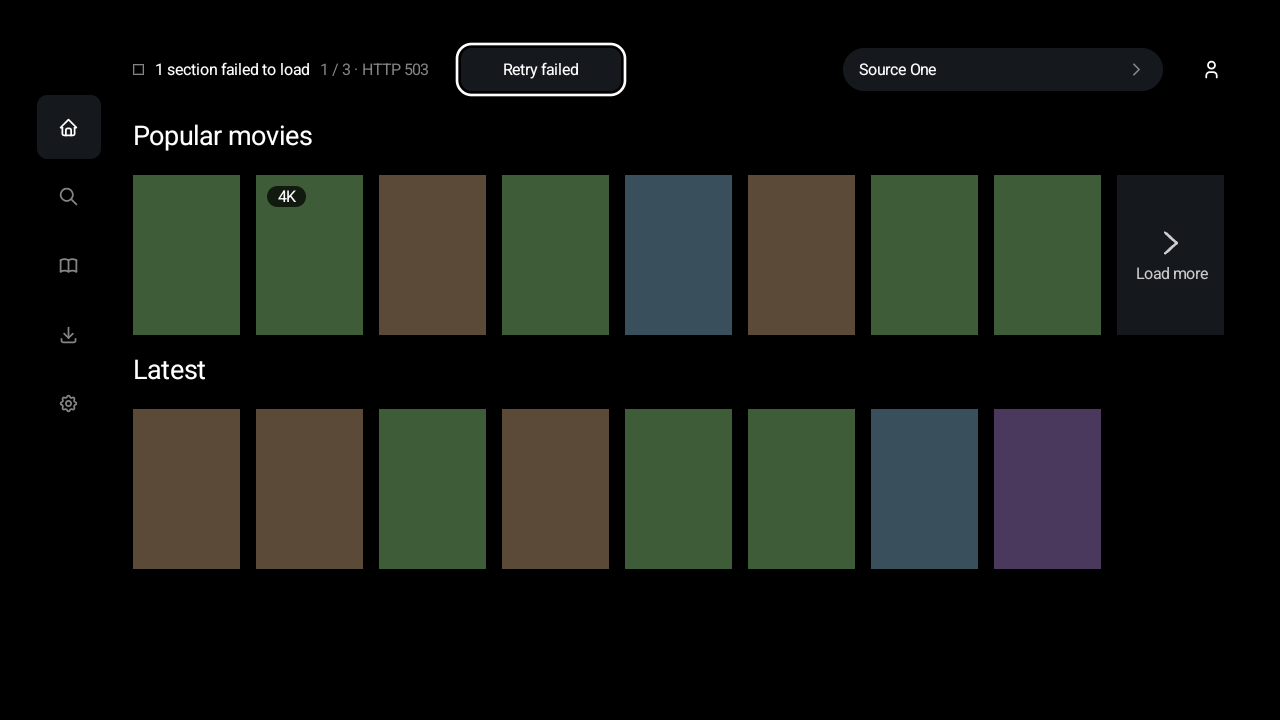
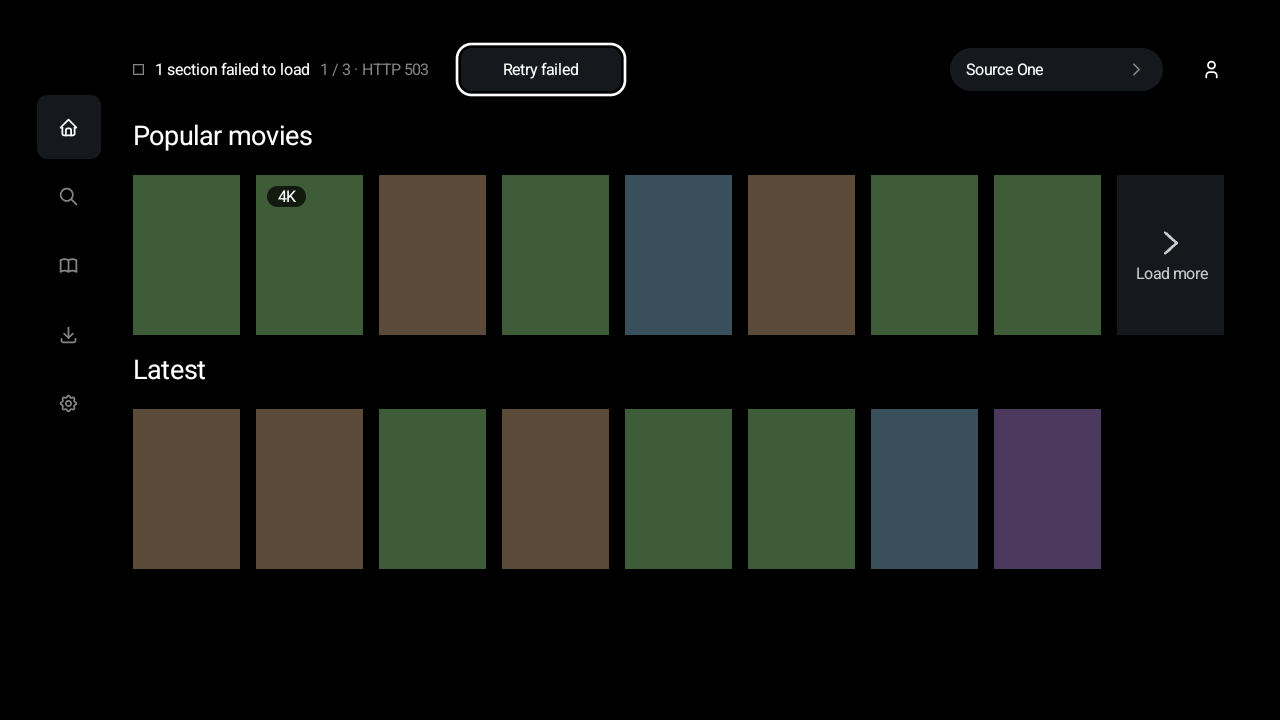
KMP-37: the source control fits its name, as 3c draws it
A weight on the name held it at its maximum width, with fill = false too, since a Row with any weighted child
takes its whole width. Five references move with it, every one that shows the control.

Changed region(s): [[0.6562, 0.0611, 0.8125, 0.1528]]

diff --git a/feature/home/src/commonMain/kotlin/com/lagradost/cloudstream4/feature/home/tv/HomeScreenTv.kt b/feature/home/src/commonMain/kotlin/com/lagradost/cloudstream4/feature/home/tv/HomeScreenTv.kt
@@ -346,8 +346,11 @@ private fun HomeSourceControl(name: String, stops: HomeStops, onClick: () -> Uni
             style = remember(style, colors) { style.copy(color = colors.ink) },
             maxLines = 1,
             overflow = TextOverflow.Ellipsis,
-            // Not filling: a filling weight held the control at its maximum width whatever the name.
-            modifier = Modifier.weight(1f, fill = false).padding(end = CloudStreamDimens.ListRowPadding),
+            // No weight: a Row with a weighted child takes its whole maximum width, filling or not (measured: the
+            // screenshot did not move with `fill = false`). A cap on the name lets the control fit its content.
+            modifier = Modifier
+                .widthIn(max = HomeScreenTvDefaults.SourceNameMaxWidth)
+                .padding(end = CloudStreamDimens.ListRowPadding),
         )
         CloudStreamIcon(
             CloudStreamIcons.Disclosure,
@@ -387,6 +390,10 @@ object HomeScreenTvDefaults {
 
     /** 3c's `.srcpill { padding: 0 24px }`. */
     val SourceControlPadding: Dp = 12.dp
+
+    /** What is left of [SourceControlMaxWidth] for the name: its padding, the gap and the 16dp glyph (`ChipGlyphSize`). */
+    val SourceNameMaxWidth: Dp =
+        SourceControlMaxWidth - SourceControlPadding * 2 - CloudStreamDimens.ListRowPadding - CloudStreamDimens.ChipGlyphSize
 
     /** Mirrors `FailureBannerDefaults.DetailMaxWidth`. */
     val FailureDetailMaxWidth: Dp = 240.dp
